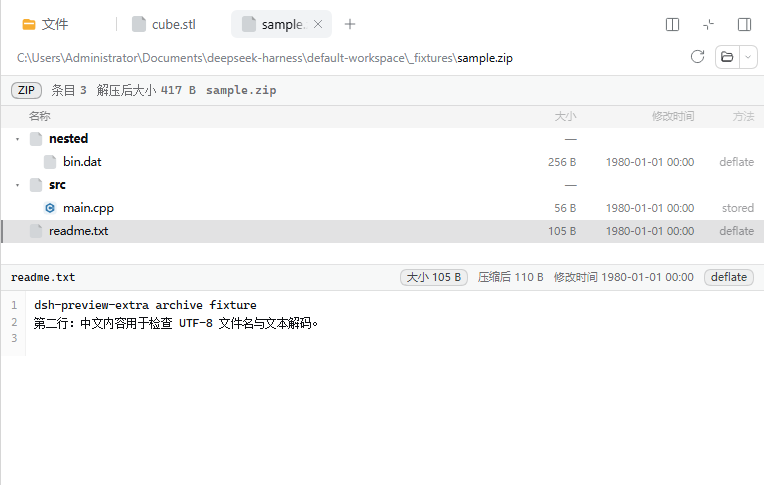
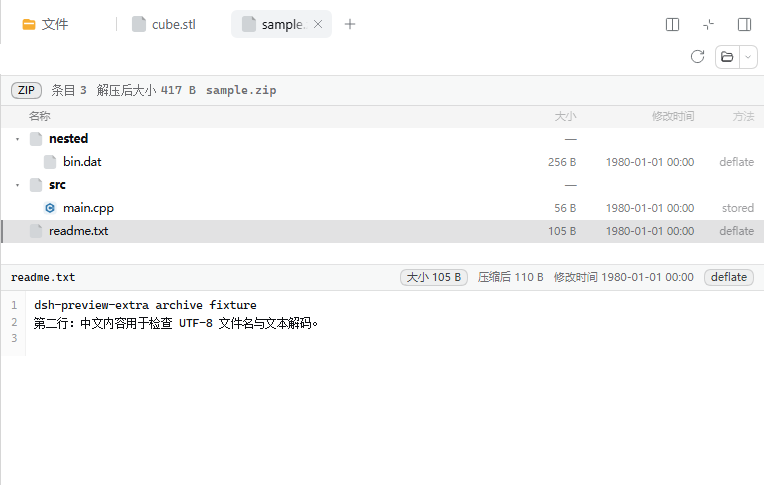
chore: redact local paths from docs and screenshots before publishing

Changed region(s): [[0.0301, 0.0928, 0.6623, 0.1546]]

diff --git a/notes/module-contract.md b/notes/module-contract.md
@@ -5,10 +5,10 @@
 >
 > 路径缩写（下文所有 `path:line` 的根）：
 >
-> - `$ACL` = `C:\Users\Administrator\.dsh\acl-runner\node_modules\@deepseek-ai`
-> - `$PROFILE` = `C:\Users\Administrator\.dsh\profiles\desktop`
+> - `$ACL` = `C:\Users\you\.dsh\acl-runner\node_modules\@deepseek-ai`
+> - `$PROFILE` = `C:\Users\you\.dsh\profiles\desktop`
 > - `$WEB` = `$ACL\dsh-web-frontend\dist\assets\index-5SrrfWpU.js`（外壳，压缩成 128 行；引用行号 + 字节偏移）
-> - `$PKG` = `C:\Users\Administrator\Documents\daily\dsh-preview-extra\pkg`（lead 的骨架）
+> - `$PKG` = `C:\Users\you\Documents\daily\dsh-preview-extra\pkg`（lead 的骨架）
 >
 > 配套产物：`skeleton/`（最小可跑包 + 校验器）、`notes/preview-api.md`（预览 API，task-1 产出）。
 
@@ -678,7 +678,7 @@ function apply(ctx) {
 
    ```powershell
    & 'C:\Program Files\nodejs\node.exe' .\skeleton\verify.mjs
-   & 'C:\Program Files\nodejs\node.exe' .\skeleton\verify.mjs 'C:\Users\Administrator\Documents\daily\dsh-preview-extra\pkg'
+   & 'C:\Program Files\nodejs\node.exe' .\skeleton\verify.mjs 'C:\Users\you\Documents\daily\dsh-preview-extra\pkg'
    ```
 
    本机实测：skeleton **37/37**、官方 `dsh-client-ui-brand-official` **33/33**、
@@ -753,20 +753,20 @@ function apply(ctx) {
   ```yaml
   - insert:
       - id: preview-extra-skeleton
-        name: 'file:///C:/Users/Administrator/Documents/daily/skeleton/lib/index.js'
+        name: 'file:///C:/Users/you/Documents/daily/skeleton/lib/index.js'
   ```
 
   更完整的 lead 操作序列（PowerShell，需对 `~/.dsh` 有写权限）：
 
   ```powershell
-  $patch = 'C:\Users\Administrator\.dsh\profiles\desktop\cordis.patch.yml'
+  $patch = 'C:\Users\you\.dsh\profiles\desktop\cordis.patch.yml'
   Copy-Item $patch "$patch.bak-preview-extra"          # 1. 备份
   Get-Content $patch | Select-String 'preview-extra'   # 2. 确认没有同名行（应为空）
   Add-Content $patch @'
 
   - insert:
       - id: preview-extra-skeleton
-        name: 'file:///C:/Users/Administrator/Documents/daily/skeleton/lib/index.js'
+        name: 'file:///C:/Users/you/Documents/daily/skeleton/lib/index.js'
   '@
   # 3. 保存后 2-3 秒，在页面 Console 看：
   #    [dsh-preview-extra-skeleton] client bundle applied (v0.0.1)

diff --git a/skeleton/README.md b/skeleton/README.md
@@ -45,12 +45,12 @@ bundle 是 classic script 且 `id === package.json name`、只注册一次、
 `dsh-client-ui-brand-official` 33/33 通过）：
 
 ```powershell
-& 'C:\Program Files\nodejs\node.exe' .\skeleton\verify.mjs 'C:\Users\Administrator\.dsh\acl-runner\node_modules\@deepseek-ai\dsh-client-ui-brand-official'
+& 'C:\Program Files\nodejs\node.exe' .\skeleton\verify.mjs 'C:\Users\you\.dsh\acl-runner\node_modules\@deepseek-ai\dsh-client-ui-brand-official'
 ```
 
 ## 2. 装进 desktop profile（**留给 lead / 用户执行**；本目录只写 workspace）
 
-运行中的 profile 是 `desktop`：`C:\Users\Administrator\.dsh\profiles\desktop\`，其
+运行中的 profile 是 `desktop`：`C:\Users\you\.dsh\profiles\desktop\`，其
 `package.json` 的 `dsh.profile.bundles` + `cordis.patch.yml` 决定启用行。往 profile
 写文件在 workspace 之外，本会话的 workspace-write 沙箱不允许，因此下面步骤要由
 lead 用更宽权限执行，或交给用户手动做。
@@ -59,13 +59,13 @@ lead 用更宽权限执行，或交给用户手动做。
 
 不需要把包复制进 `~/.dsh`，也不需要 pnpm；唯一改动是 profile patch 里加一条行。
 
-1. 在 `C:\Users\Administrator\.dsh\profiles\desktop\cordis.patch.yml` **末尾**追加
+1. 在 `C:\Users\you\.dsh\profiles\desktop\cordis.patch.yml` **末尾**追加
    （注意缩进：顶层数组项，`insert` 列表项用 4 空格）：
 
    ```yaml
    - insert:
        - id: preview-extra-skeleton
-         name: 'file:///C:/Users/Administrator/Documents/daily/skeleton/lib/index.js'
+         name: 'file:///C:/Users/you/Documents/daily/skeleton/lib/index.js'
    ```
 
    - `id` 是 Loader 条目 id，随便唯一即可；

diff --git a/README.md b/README.md
@@ -74,8 +74,8 @@ desktop profile 的原始 patch 备份：
 ## 测试用 DSH 实例（E2E）
 
 ```powershell
-$env:DSH_HOME = 'C:\Users\Administrator\Documents\daily\_dsh_test'
-& 'C:\Program Files\nodejs\node.exe' 'C:\Users\Administrator\.dsh\acl-runner\node_modules\@deepseek-ai\dsh\lib\bin.js' --profile test --no-open --port 1891
+$env:DSH_HOME = 'C:\Users\you\Documents\daily\_dsh_test'
+& 'C:\Program Files\nodejs\node.exe' 'C:\Users\you\.dsh\acl-runner\node_modules\@deepseek-ai\dsh\lib\bin.js' --profile test --no-open --port 1891
 # 终端会打印带 token 的 URL；无头 Chrome 已可用 CDP 驱动：
 & 'C:\Program Files\nodejs\node.exe' .\tools\cdp.mjs new "<带 token 的 URL>"
 & 'C:\Program Files\nodejs\node.exe' .\tools\cdp.mjs eval "document.body.innerText.slice(0,500)"

diff --git a/notes/preview-api.md b/notes/preview-api.md
@@ -1,7 +1,7 @@
 # DSH 右侧栏「文档预览」扩展 API 契约
 
 > 目的：为 `dsh-preview-extra` 新增 3D 模型（stl/obj/ply）与压缩包（zip/tar/gz…）预览，给出**能照着写代码**的契约。
-> 环境：DSH `0.2.0-rc.2`，只读官方包位于 `C:\Users\Administrator\.dsh\acl-runner\node_modules\@deepseek-ai\`。
+> 环境：DSH `0.2.0-rc.2`，只读官方包位于 `C:\Users\you\.dsh\acl-runner\node_modules\@deepseek-ai\`。
 > 结论全部来自逐行阅读发布产物 `lib/client.js`（带完整 JSDoc、行号稳定），未做浏览器运行时验证；本文所有 `file:line` 中的 `file` 见下方缩写表。
 
 ## 缩写与权威文件

diff --git a/pkg/src/model/REPORT.md b/pkg/src/model/REPORT.md
@@ -138,7 +138,7 @@ const view = createModelView({ canvas, model, options: { wireframe: false, grid:
 
 ## 4. 测试
 
-命令（工作目录 `C:\Users\Administrator\Documents\daily`）：
+命令（工作目录 `C:\Users\you\Documents\daily`）：
 
 ```powershell
 & 'C:\Program Files\nodejs\node.exe' dsh-preview-extra/pkg/src/model/tests/run.js
